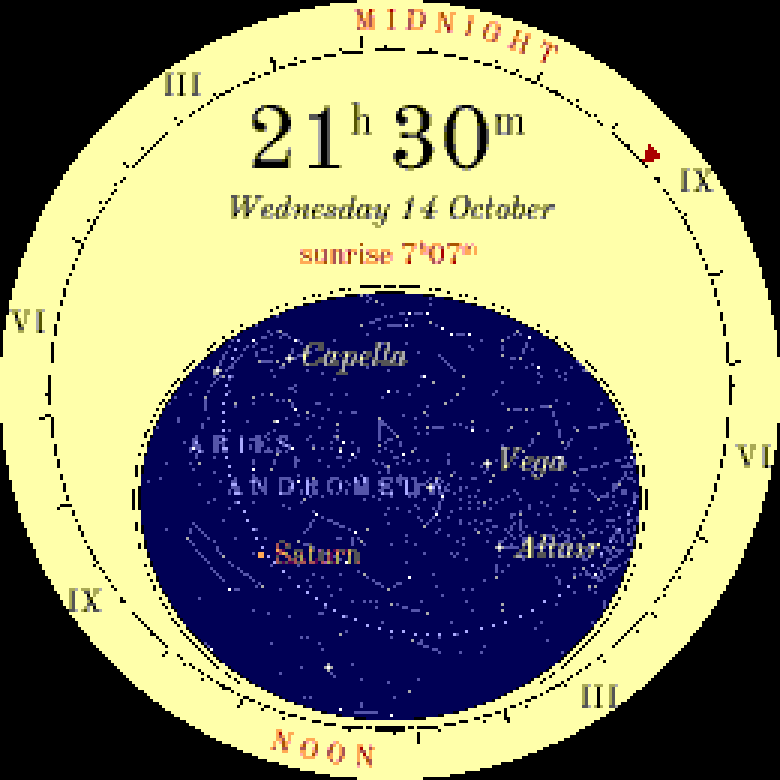
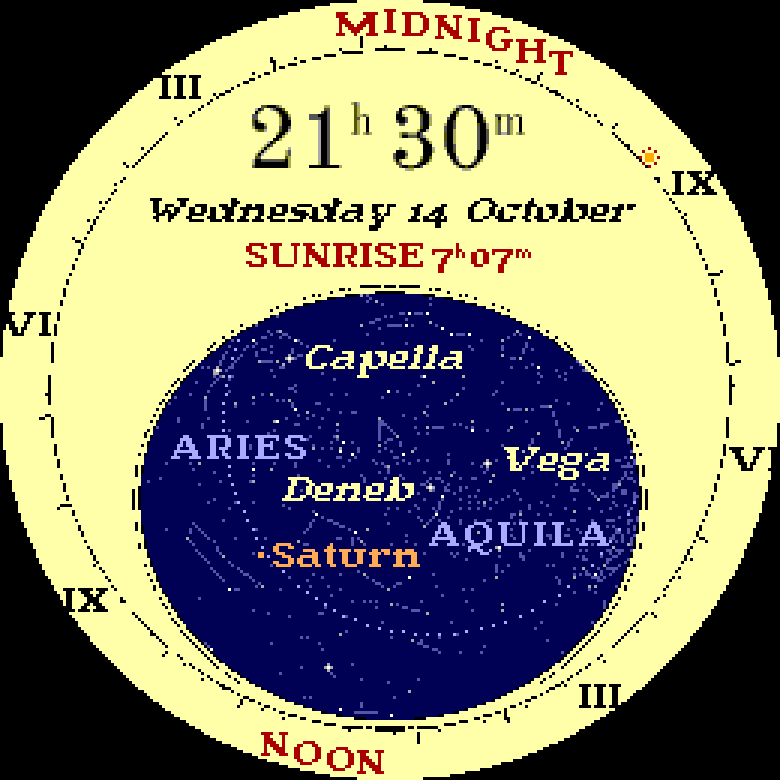
Refresh the plates' images and README for the pixel type, the eyed Sun and the Time 2's corners

diff --git a/proto/plates.py b/proto/plates.py
@@ -401,23 +401,6 @@ def render(when, dial, sky, tz, plate="planisphere", round_screen=True, corners=
     return nearest(img)
 
 
-if __name__ == "__main__":
-    sky = load_sky(4.6)
-    out = ROOT / "out"
-    when = datetime(2026, 10, 14, 21, 30, tzinfo=NY)
-    noon = datetime(2026, 10, 14, 12, 15, tzinfo=NY)
-    r2, t2 = Dial(260, 260, 40.71, -74.01), Dial(200, 228, 40.71, -74.01)
-    names = list(PLATES)
-    S = Image.new("RGB", (len(names) * 266, 266 * 2 + 236), (24, 24, 26))
-    for i, pl in enumerate(names):
-        for row, (t, dial, rnd) in enumerate(((when, r2, True), (noon, r2, True), (when, t2, False))):
-            im = Image.fromarray(render(t.astimezone(timezone.utc), dial, sky, NY, pl, rnd, "glory"))
-            im.save(out / f"plate-{pl}-{['night', 'noon', 'time2'][row]}.png")
-            S.paste(im, (i * 266 + (3 if rnd else 33), row * 266 + 3))
-    S.save(out / "plates.png")
-    S.resize((S.width * 2, S.height * 2), Image.NEAREST).save(out / "plates-2x.png")
-    print("ok")
-
 
 def ornament(img, dial, P, kind):
     """Woodcut texture in the card's corners (outside the ring), in a tint a little away from the card's own:
@@ -454,3 +437,20 @@ def ornament(img, dial, P, kind):
             for ox, oy in ((0, 0), (1, 0), (-1, 0), (0, 1), (0, -1)) + (((2, 0), (-2, 0), (0, 2), (0, -2)) if big else ()):
                 if 0 <= yi + oy < H and 0 <= xi + ox < W and outside[yi + oy, xi + ox]:
                     img[yi + oy, xi + ox] = tint
+
+if __name__ == "__main__":
+    sky = load_sky(4.6)
+    out = ROOT / "out"
+    when = datetime(2026, 10, 14, 21, 30, tzinfo=NY)
+    noon = datetime(2026, 10, 14, 12, 15, tzinfo=NY)
+    r2, t2 = Dial(260, 260, 40.71, -74.01), Dial(200, 228, 40.71, -74.01)
+    names = list(PLATES)
+    S = Image.new("RGB", (len(names) * 266, 266 * 2 + 236), (24, 24, 26))
+    for i, pl in enumerate(names):
+        for row, (t, dial, rnd) in enumerate(((when, r2, True), (noon, r2, True), (when, t2, False))):
+            im = Image.fromarray(render(t.astimezone(timezone.utc), dial, sky, NY, pl, rnd, "glory"))
+            im.save(out / f"plate-{pl}-{['night', 'noon', 'time2'][row]}.png")
+            S.paste(im, (i * 266 + (3 if rnd else 33), row * 266 + 3))
+    S.save(out / "plates.png")
+    S.resize((S.width * 2, S.height * 2), Image.NEAREST).save(out / "plates-2x.png")
+    print("ok")

diff --git a/README.md b/README.md
@@ -4,7 +4,7 @@ A watch face prototype for the Pebble Round 2 and Time 2: the sky as it is right
 
 ## Plates
 
-Like Groundtrack's plates, each plate follows a real tradition of sky charts, set in the type of its time. Every plate sets the time the way astronomers write it, **21ʰ 30ᵐ**, large in the card above the window. Under it are the date in italic and the Sun's next rising or setting in small capitals. The sky carries names the way the old atlases letter them: constellations in spaced capitals, stars in italic, planets in small capitals.
+Like Groundtrack's plates, each plate follows a real tradition of sky charts, set in the type of its time. Every plate sets the time the way astronomers write it, **21ʰ 30ᵐ**, large in the card above the window. The small type is pixel type, every letter in whole pixels: Not Jam Old Style (CC0), a pixel serif after the old Garalde faces, with star names leaning in an oblique cut from it a pixel at a time. Under it are the date in italic and the Sun's next rising or setting in small capitals. The sky carries names the way the old atlases letter them: constellations in spaced capitals, stars in italic, planets in small capitals.
 
 ![A day on the paper planisphere, eight minutes a frame](docs/plate-planisphere-day.gif)
 
@@ -23,6 +23,12 @@ The planisphere, observatory and night plates show the live sky in their window:
 ![The paper planisphere at 9:30 pm](docs/plate-planisphere.png)
 
 ![Flamsteed's plate at 9:30 pm](docs/plate-flamsteed.png)
+
+## On the Round 2, and the Time 2
+
+The planisphere is a round instrument, and the Round 2 is its home. On the Time 2 the card fills the rectangle, and its corners carry no information, only a woodcut texture: fine rays behind the instrument, as engraved title pages put rays behind their centrepiece (stars or an engraver's hatching are the quieter choices, and the corners can also stay plain). By day the Sun in the window is drawn with a face, its rays turning between straight and wavy (after the Sun of May), and a small rayed Sun points at the hour on the ring.
+
+![The Time 2 with rays, stars, hatching and plain corners; the Sun at noon on the paper planisphere and on Burritt's plate](docs/time2-corners.png)
 
 ## Experimental: the compass, on a flick
 
@@ -84,4 +90,4 @@ Next: the same drawing in C for the watch, with the stars and figures as a small
 
 Star positions and colours, constellation lines and the Milky Way's outline come from [d3-celestial](https://github.com/ofrohn/d3-celestial), © 2015 Olaf Frohn, BSD 3-Clause (`data/`). The numerals use the monoline stroke font made for Morphogen 9.
 
-Type: Old Standard TT (Alexey Kryukov), Libre Caslon Text, Playfair Display, with IM Fell, EB Garamond and Cinzel tried in [the type specimen](docs/type-specimen.png). All are SIL Open Font License 1.1, and the licences are in `fonts/`.
+Pixel type: Not Jam Old Style 11 by Not Jam (CC0, `fonts/pixel/`). Type: Old Standard TT (Alexey Kryukov), Libre Caslon Text, Playfair Display, with IM Fell, EB Garamond and Cinzel tried in [the type specimen](docs/type-specimen.png). All are SIL Open Font License 1.1, and the licences are in `fonts/`.
